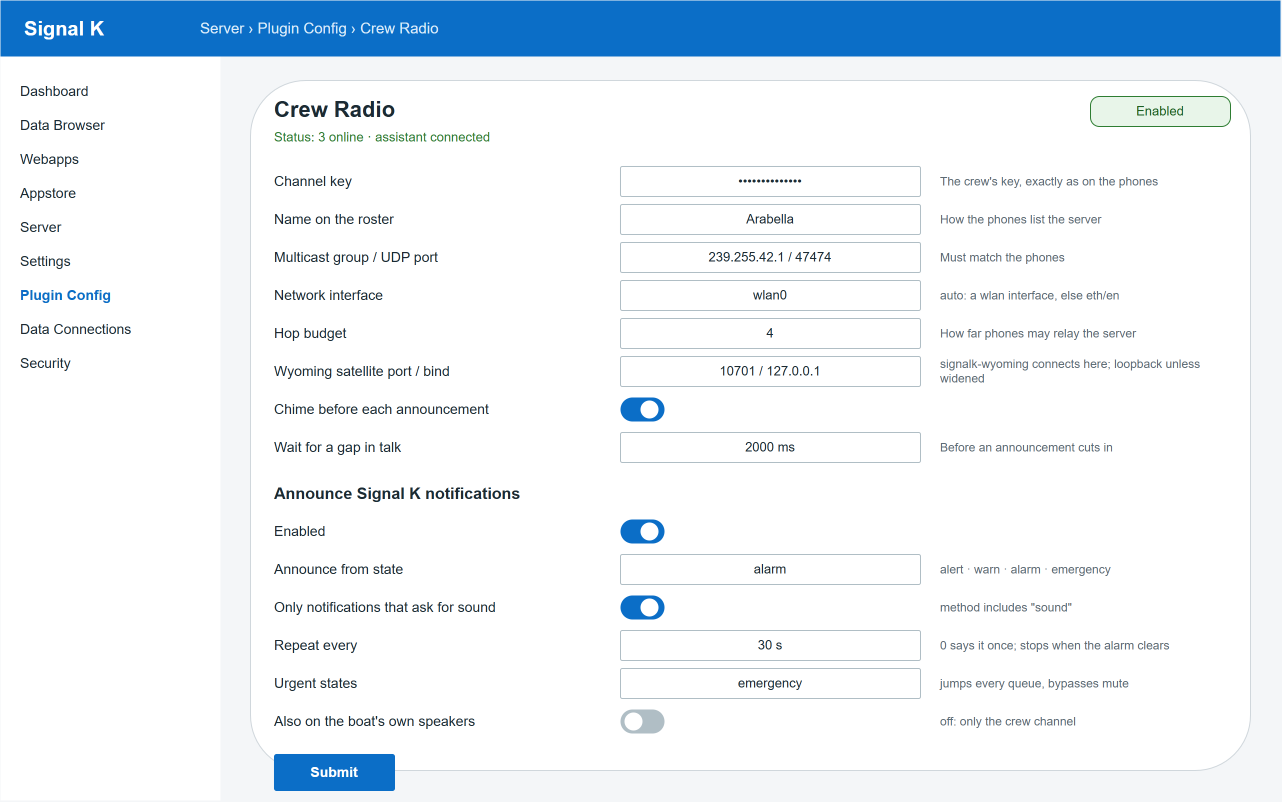
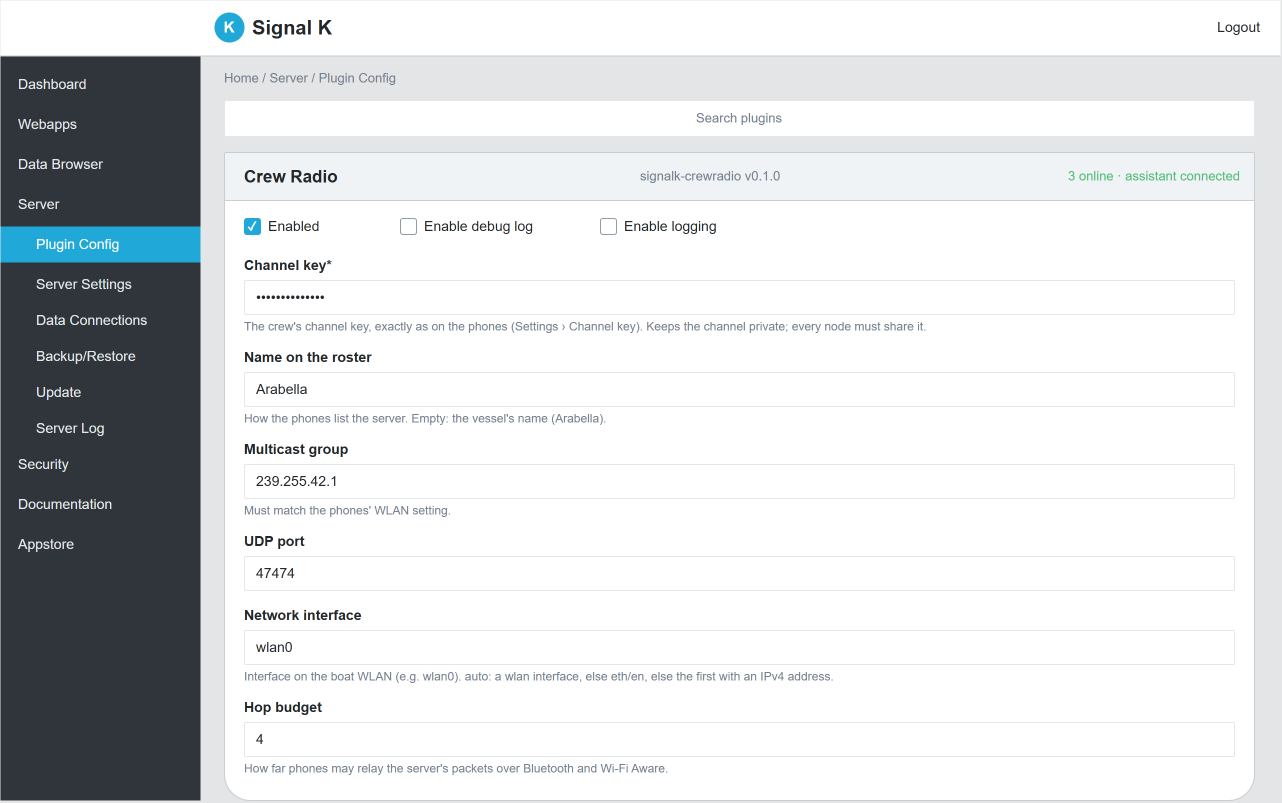
Draw the settings screenshot as the admin UI's Plugin Config page
Dark sidebar with the Server menu open on Plugin Config, white navbar, the plugin card with
its Enabled and log checkboxes, and the JSON-schema form as react-jsonschema-form renders it:
labels above full-width inputs, descriptions below, running off the bottom like a scrolled page.

diff --git a/sk-plugin/docs/make_screenshots.py b/sk-plugin/docs/make_screenshots.py
@@ -171,65 +171,74 @@ def how_it_fits():
     diagram("how-it-fits", n, e, background=LIGHT_BG)
 
 
-# ---------------------------------------------------------------- 3. settings (light, admin UI)
+# ---------------------------------------------------------------- 3. settings (the admin UI's Plugin Config page)
+
+# Signal K server admin UI (CoreUI): dark sidebar, white navbar, grey page, white cards, RJSF form.
+NAV_BG, SIDE_BG, SIDE_TEXT, SIDE_ACTIVE, PAGE_BG = "#FFFFFF", "#2F353A", "#E4E7EA", "#20A8D8", "#E4E5E6"
+CARD_BORDER, INK2, DESC, INPUT_BORDER, PRIMARY = "#C8CED3", "#23282C", "#73818F", "#E4E7EA", "#20A8D8"
+
 
 def settings():
-    n = [rect("bg", 0, 0, W, H, fill=LIGHT_BG, stroke="none", arc=0)]
-    # admin UI chrome
-    n.append(rect("top", 0, 0, W, 56, fill=SK_BLUE, stroke="none", arc=0))
-    n.append(txt("brand", "Signal K", 24, 8, 200, 40, 20, "#FFFFFF", bold=True, mono=False))
-    n.append(txt("crumb", "Server  ›  Plugin Config  ›  Crew Radio", 200, 8, 600, 40, 15, "#DCEBFA", mono=False))
-    n.append(rect("side", 0, 56, 220, H - 56, fill="#FFFFFF", stroke="none", arc=0))
-    for i, item in enumerate(["Dashboard", "Data Browser", "Webapps", "Appstore", "Server", "  Settings", "  Plugin Config", "  Data Connections", "Security"]):
-        bold = item.strip() == "Plugin Config"
-        n.append(txt(f"s{i}", item, 20, 76 + i * 34, 190, 30, 14, (SK_BLUE if bold else INK), bold=bold, mono=False))
-    # plugin card
-    n.append(rect("card", 250, 80, 1000, 690, fill=LIGHT_CARD, stroke=LIGHT_LINE, arc=8))
-    n.append(txt("ph", "Crew Radio", 274, 92, 500, 34, 22, INK, bold=True, mono=False))
-    n.append(rect("en", 1090, 96, 140, 30, fill="#E8F5E9", stroke="#2E7D32", arc=30, label="Enabled", color="#1B5E20", size=13, mono=False))
-    n.append(txt("st", "Status: 3 online · assistant connected", 274, 124, 700, 26, 13, "#2E7D32", mono=False))
-    rows = [
-        ("Channel key", "••••••••••••••", "The crew's key, exactly as on the phones"),
-        ("Name on the roster", "Arabella", "How the phones list the server"),
-        ("Multicast group / UDP port", "239.255.42.1 / 47474", "Must match the phones"),
-        ("Network interface", "wlan0", "auto: a wlan interface, else eth/en"),
-        ("Hop budget", "4", "How far phones may relay the server"),
-        ("Wyoming satellite port / bind", "10701 / 127.0.0.1", "signalk-wyoming connects here; loopback unless widened"),
-        ("Chime before each announcement", "on", ""),
-        ("Wait for a gap in talk", "2000 ms", "Before an announcement cuts in"),
+    n = [rect("bg", 0, 0, W, H, fill=PAGE_BG, stroke="none", arc=0)]
+    # navbar
+    n.append(rect("nav", 0, 0, W, 55, fill=NAV_BG, stroke="none", arc=0))
+    n.append(rect("navline", 0, 55, W, 1, fill=CARD_BORDER, stroke="none", arc=0))
+    n.append(ellipse("logo", 214, 12, 30, 30, PRIMARY, "none", label="K", color="#FFFFFF", size=15))
+    n.append(txt("brand", "Signal K", 252, 12, 200, 30, 20, INK2, bold=True, mono=False))
+    n.append(txt("navr", "Logout", W - 110, 12, 90, 30, 14, INK2, mono=False, align="right"))
+    # sidebar
+    n.append(rect("side", 0, 56, 200, H - 56, fill=SIDE_BG, stroke="none", arc=0))
+    items = [("Dashboard", 0), ("Webapps", 0), ("Data Browser", 0), ("Server", 0), ("Plugin Config", 2), ("Server Settings", 1),
+             ("Data Connections", 1), ("Backup/Restore", 1), ("Update", 1), ("Server Log", 1), ("Security", 0), ("Documentation", 0), ("Appstore", 0)]
+    y = 72
+    for i, (label, kind) in enumerate(items):
+        if kind == 2:
+            n.append(rect(f"sa{i}", 0, y - 6, 200, 36, fill=SIDE_ACTIVE, stroke="none", arc=0))
+        n.append(txt(f"s{i}", label, 18 + (18 if kind else 0), y, 180, 24, 14, "#FFFFFF" if kind == 2 else SIDE_TEXT, mono=False))
+        y += 40 if kind != 1 else 36
+    # breadcrumb
+    n.append(txt("crumb", "Home  /  Server  /  Plugin Config", 224, 66, 600, 24, 13, DESC, mono=False))
+    # search + card
+    n.append(rect("search", 224, 100, 1030, 36, fill="#FFFFFF", stroke=INPUT_BORDER, arc=4, label="Search plugins", color=DESC, size=13, mono=False))
+    n.append(rect("card", 224, 152, 1030, H - 152, fill="#FFFFFF", stroke=CARD_BORDER, arc=4))   # runs off the bottom, as a scrolled page does
+    n.append(rect("cardh", 224, 152, 1030, 48, fill="#F0F3F5", stroke=CARD_BORDER, arc=4))
+    n.append(txt("ct", "Crew Radio", 244, 160, 400, 32, 17, INK2, bold=True, mono=False))
+    n.append(txt("cv", "signalk-crewradio  v0.1.0", 640, 160, 400, 32, 13, DESC, mono=False))
+    n.append(txt("cs", "3 online · assistant connected", 1000, 160, 240, 32, 13, "#4DBD74", mono=False, align="right"))
+    # checkboxes row
+    def checkbox(nid, x, y, label, on):
+        c = [rect(nid + "b", x, y + 4, 16, 16, fill=(PRIMARY if on else "#FFFFFF"), stroke=(PRIMARY if on else "#8F9BA6"), arc=15, width=1,
+                  label=("✓" if on else ""), color="#FFFFFF", size=12, mono=False, bold=True)]
+        c.append(txt(nid + "l", label, x + 24, y, 260, 24, 14, INK2, mono=False))
+        return c
+    n += checkbox("en", 244, 214, "Enabled", True)
+    n += checkbox("dbg", 400, 214, "Enable debug log", False)
+    n += checkbox("dl", 600, 214, "Enable logging", False)
+    # RJSF fields: label above, full-width input, description below
+    fields = [
+        ("Channel key*", "••••••••••••••", "The crew's channel key, exactly as on the phones (Settings › Channel key). Keeps the channel private; every node must share it."),
+        ("Name on the roster", "Arabella", "How the phones list the server. Empty: the vessel's name (Arabella)."),
+        ("Multicast group", "239.255.42.1", "Must match the phones' WLAN setting."),
+        ("UDP port", "47474", ""),
+        ("Network interface", "wlan0", "Interface on the boat WLAN (e.g. wlan0). auto: a wlan interface, else eth/en, else the first with an IPv4 address."),
+        ("Hop budget", "4", "How far phones may relay the server's packets over Bluetooth and Wi-Fi Aware."),
     ]
-    y = 166
-    for i, (label, value, hint) in enumerate(rows):
-        n.append(txt(f"l{i}", label, 274, y, 330, 30, 14, INK, mono=False))
-        if value in ("on", "off"):
-            n += [(f"v{i}t", "", 620, y + 3, 44, 24, f"rounded=1;arcSize=50;whiteSpace=wrap;html=1;fillColor={SK_BLUE if value == 'on' else '#B0BEC5'};strokeColor=none;"),
-                  (f"v{i}k", "", 640 if value == "on" else 624, y + 6, 18, 18, "ellipse;whiteSpace=wrap;html=1;fillColor=#FFFFFF;strokeColor=none;")]
-        else:
-            n.append(rect(f"v{i}", 620, y, 300, 30, fill="#FFFFFF", stroke="#B0BEC5", arc=6, label=value, color=INK, size=13, mono=False))
-        n.append(txt(f"h{i}", hint, 940, y, 300, 30, 12, INK_MUTED, mono=False))
-        y += 38
-    n.append(txt("sec", "Announce Signal K notifications", 274, y + 8, 600, 30, 16, INK, bold=True, mono=False))
-    y += 46
-    rows2 = [
-        ("Enabled", "on", ""),
-        ("Announce from state", "alarm", "alert · warn · alarm · emergency"),
-        ("Only notifications that ask for sound", "on", "method includes \"sound\""),
-        ("Repeat every", "30 s", "0 says it once; stops when the alarm clears"),
-        ("Urgent states", "emergency", "jumps every queue, bypasses mute"),
-        ("Also on the boat's own speakers", "off", "off: only the crew channel"),
+    # The rest of the form (satellite port and bind, chime, gap, the notification section) sits below the fold.
+    _below_the_fold = [
+        ("Wyoming satellite port", "10701", "Add a satellite in signalk-wyoming with host 127.0.0.1 and this port, id \"crewradio\", and no wake words (speaker only)."),
     ]
-    for j, (label, value, hint) in enumerate(rows2):
-        i = 20 + j
-        n.append(txt(f"l{i}", label, 274, y, 330, 30, 14, INK, mono=False))
-        if value in ("on", "off"):
-            n += [(f"v{i}t", "", 620, y + 3, 44, 24, f"rounded=1;arcSize=50;whiteSpace=wrap;html=1;fillColor={SK_BLUE if value == 'on' else '#B0BEC5'};strokeColor=none;"),
-                  (f"v{i}k", "", 640 if value == "on" else 624, y + 6, 18, 18, "ellipse;whiteSpace=wrap;html=1;fillColor=#FFFFFF;strokeColor=none;")]
+    y = 254
+    for i, (label, value, desc) in enumerate(fields):
+        n.append(txt(f"fl{i}", label, 244, y, 800, 22, 14, INK2, bold=True, mono=False))
+        n.append(rect(f"fi{i}", 244, y + 26, 990, 34, fill="#FFFFFF", stroke=INPUT_BORDER, arc=4, label="", color=INK2))
+        n.append(txt(f"fv{i}", value, 256, y + 26, 900, 34, 14, INK2, mono=False))
+        if desc:
+            n.append(txt(f"fd{i}", desc, 244, y + 62, 990, 20, 12, DESC, mono=False))
+            y += 92
         else:
-            n.append(rect(f"v{i}", 620, y, 300, 30, fill="#FFFFFF", stroke="#B0BEC5", arc=6, label=value, color=INK, size=13, mono=False))
-        n.append(txt(f"h{i}", hint, 940, y, 300, 30, 12, INK_MUTED, mono=False))
-        y += 38
-    n.append(rect("save", 274, y + 10, 120, 36, fill=SK_BLUE, stroke=SK_BLUE, arc=6, label="Submit", color="#FFFFFF", size=14, mono=False, bold=True))
-    diagram("settings", n, background=LIGHT_BG)
+            y += 74
+    # the page continues below the fold, as a real one does
+    diagram("settings", n, background=PAGE_BG)
 
 
 # ---------------------------------------------------------------- 4. icon
